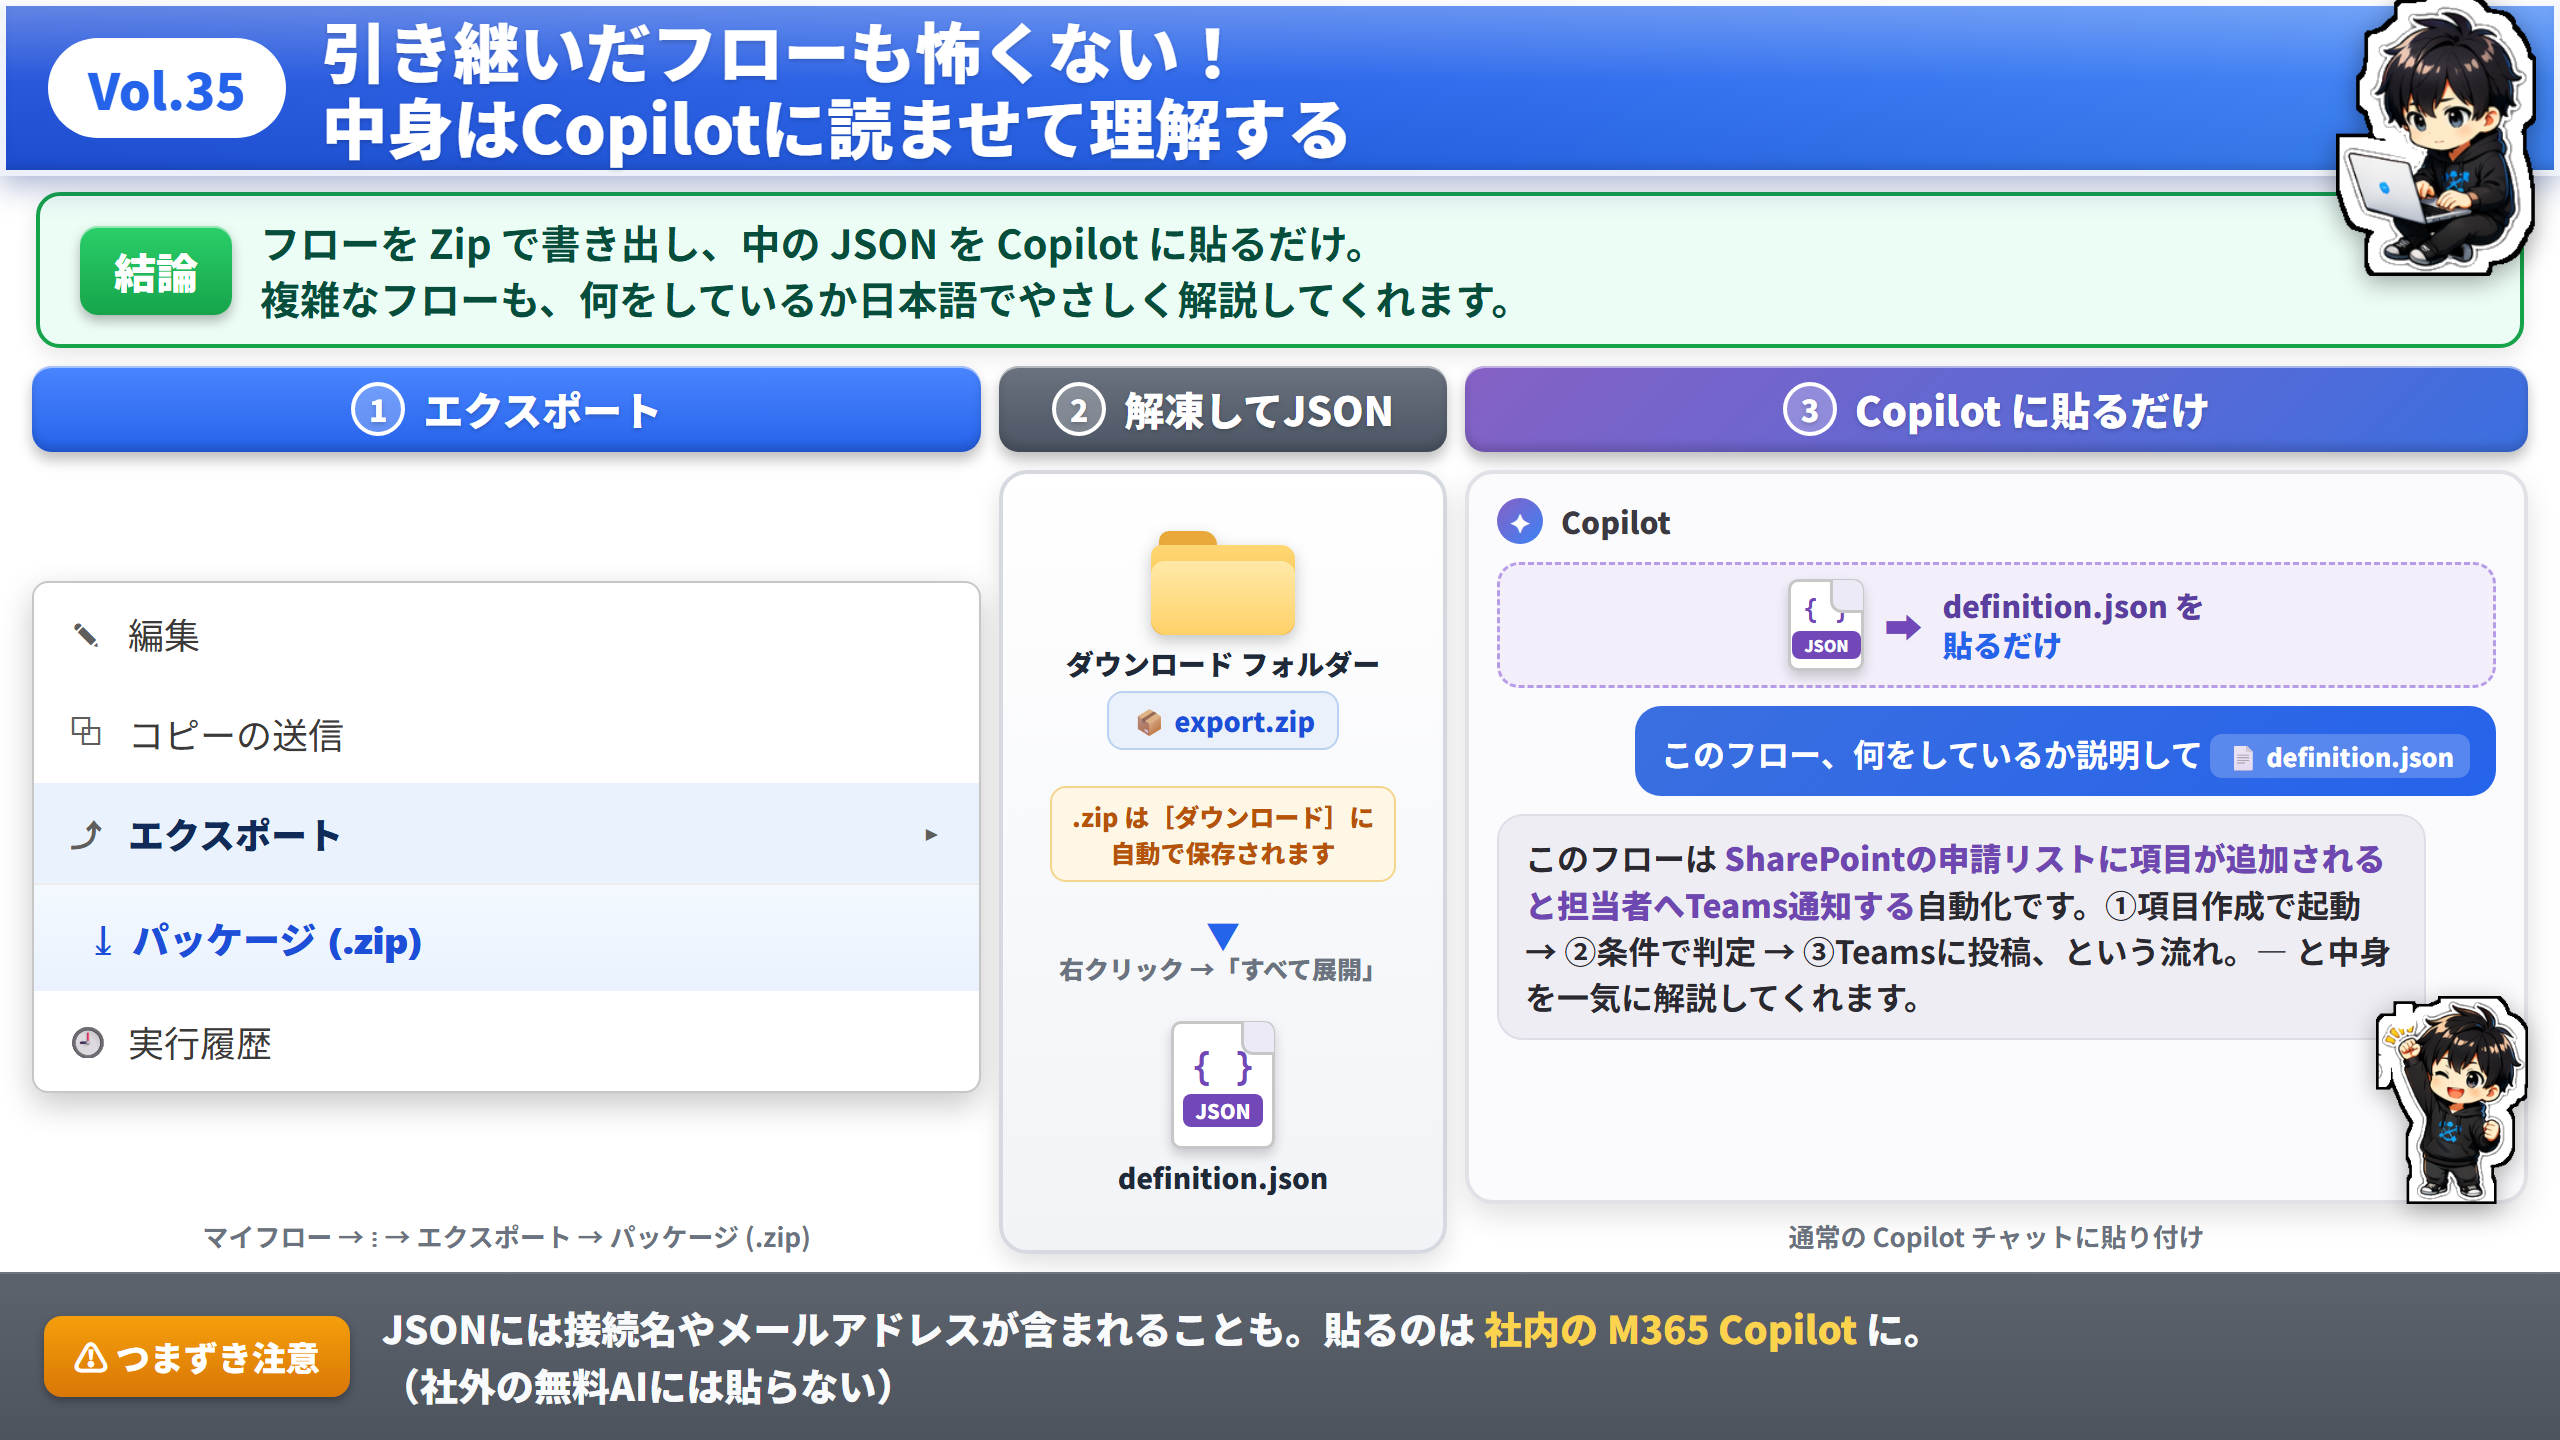
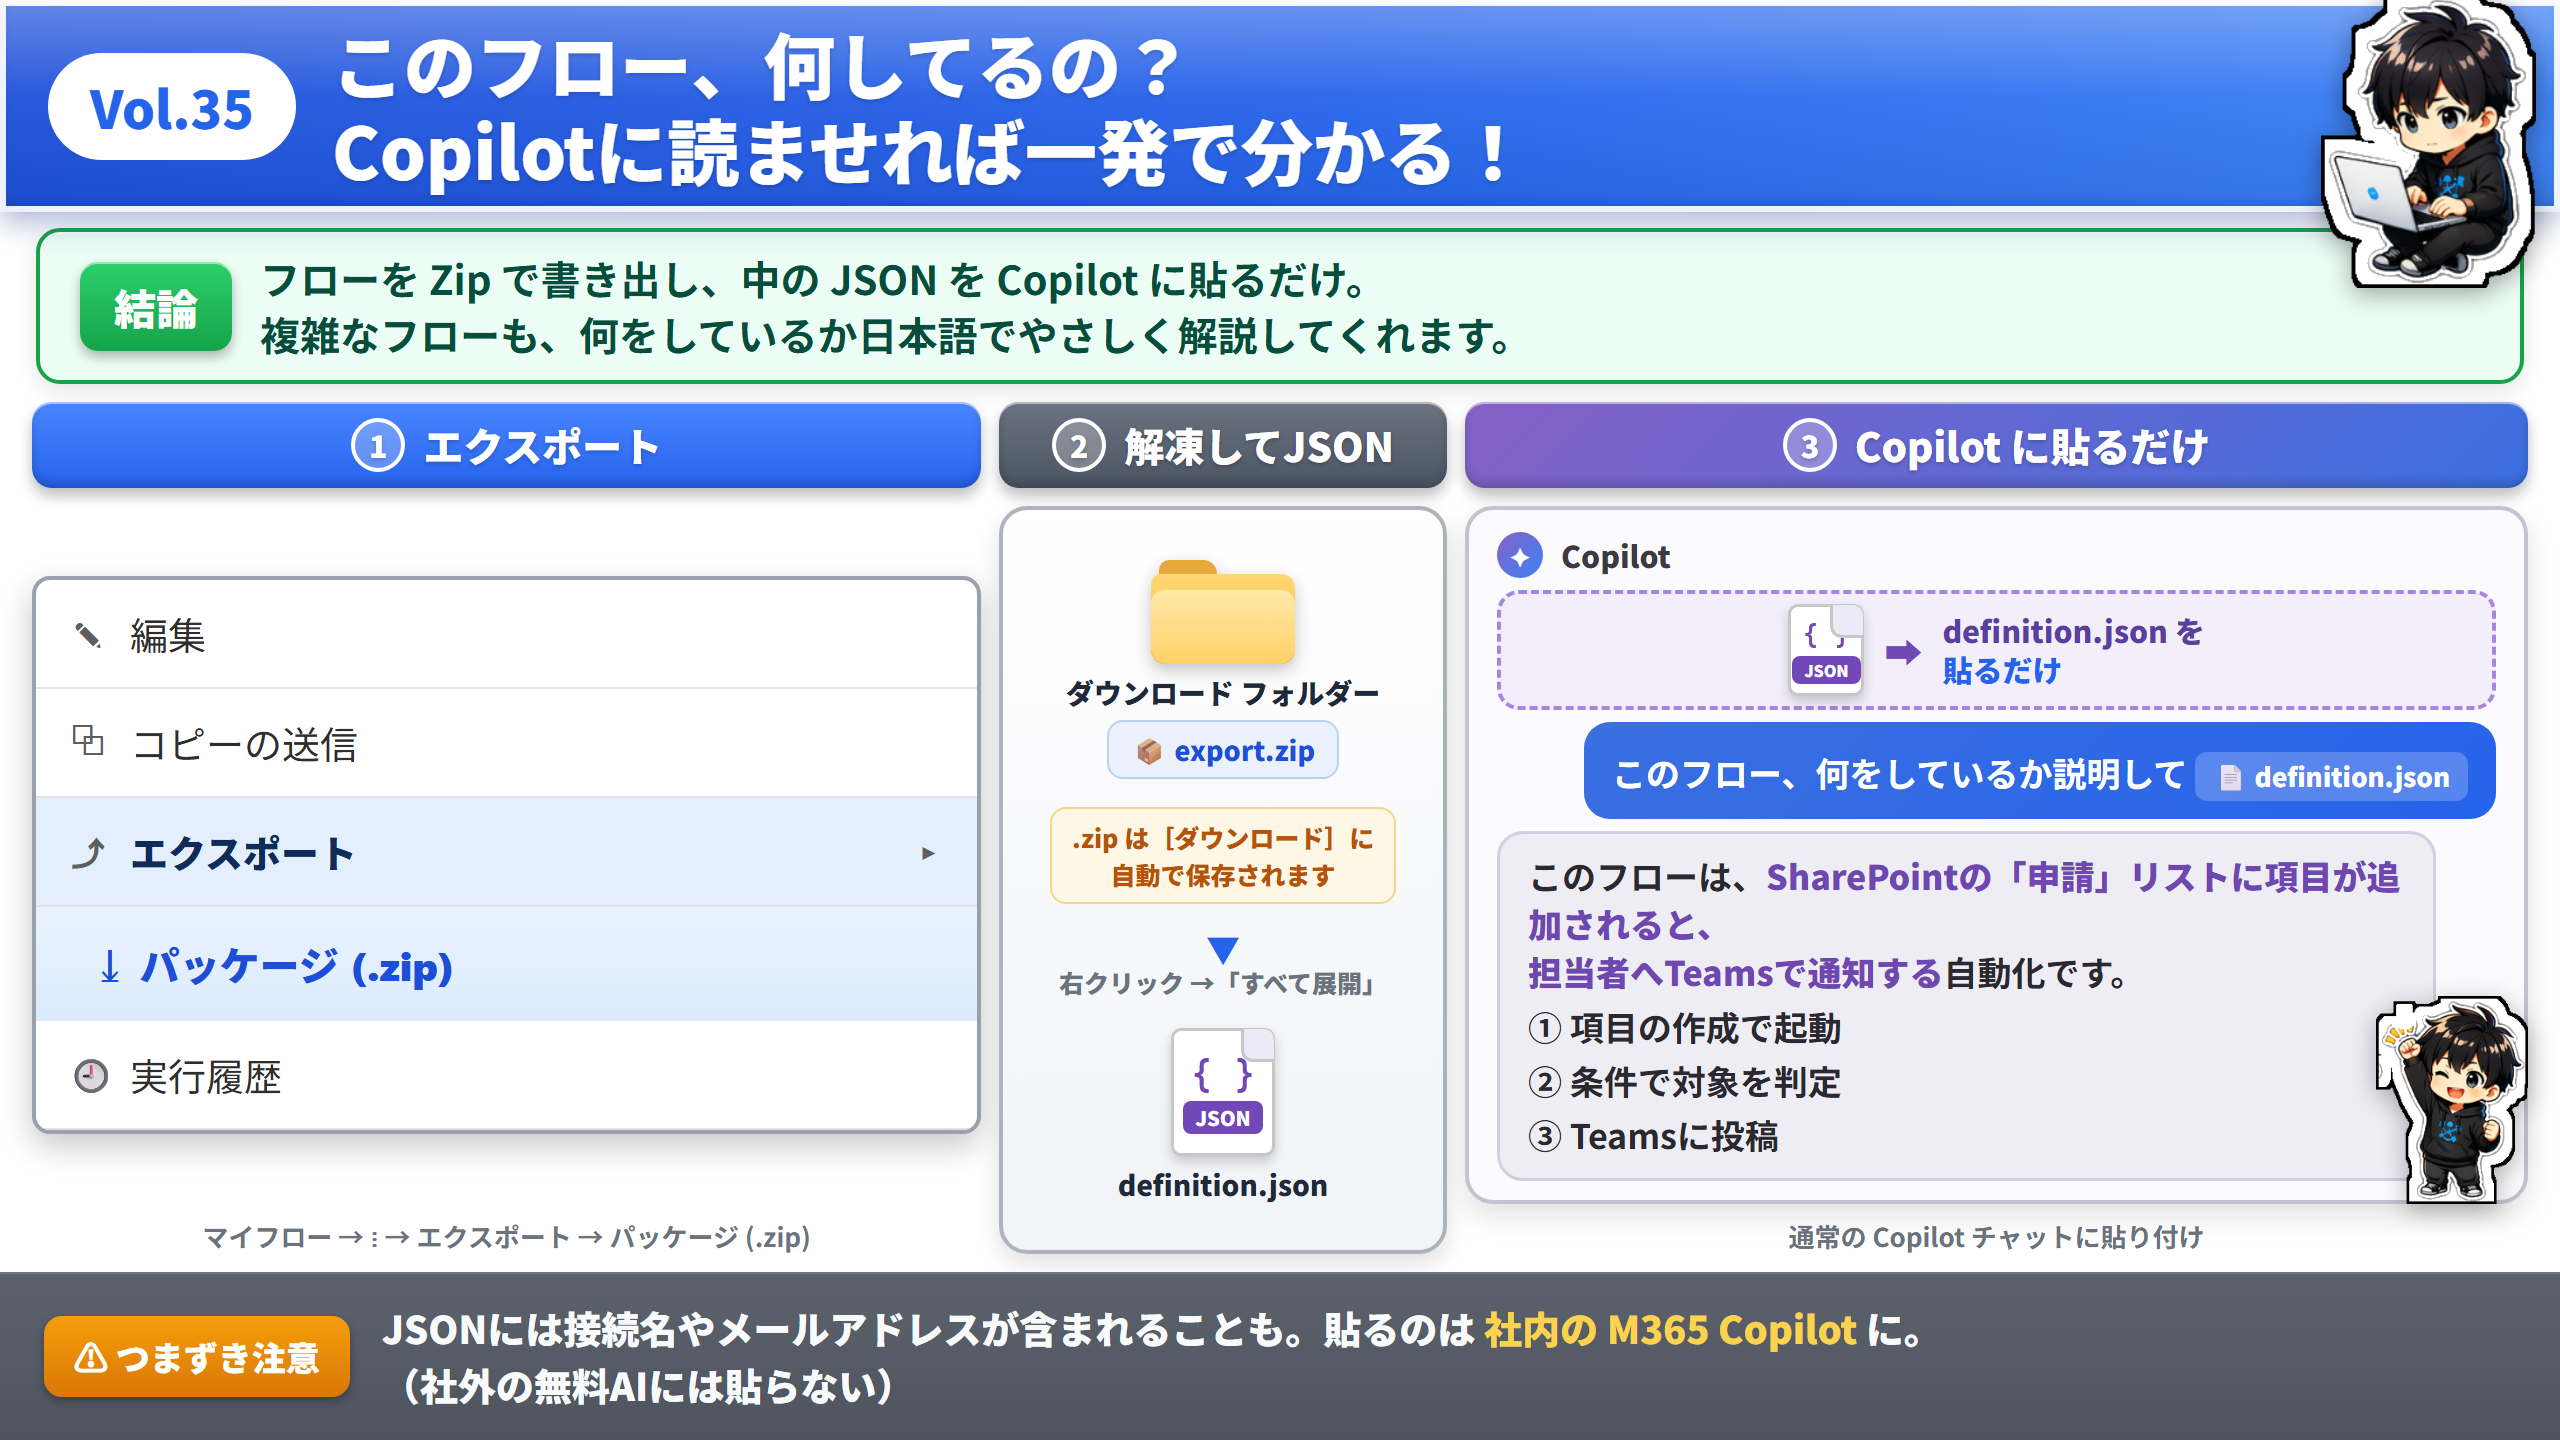
@ Vol.35 仕上げ: 枠線を濃く太く/Copilot解説を文節改行/タイトルバー拡大&キャッチー化/字拡大
@

diff --git a/assets/x/html/vol-35/index.html b/assets/x/html/vol-35/index.html
@@ -16,10 +16,10 @@
   body{background:#52555c;display:flex;justify-content:center;align-items:center;min-height:100vh;font-family:"Noto Sans JP",sans-serif;}
   #slide{width:1280px;height:720px;background:#fff;position:relative;overflow:hidden;display:flex;flex-direction:column;color:var(--gray);}
 
-  .titlebar{height:88px;background:linear-gradient(180deg,rgba(255,255,255,.32),rgba(255,255,255,.05) 46%,rgba(0,0,0,.06) 100%),linear-gradient(135deg,#1D4ED8 0%,#2563EB 52%,#3B82F6 100%);box-shadow:inset 0 0 0 3px rgba(255,255,255,.92),inset 0 2px 1px rgba(255,255,255,.45),inset 0 -4px 6px rgba(0,0,0,.16),0 5px 14px rgba(30,58,138,.36);display:flex;align-items:center;gap:18px;padding:0 24px;position:relative;flex:0 0 auto;z-index:5;}
-  .vol-pill{background:#fff;color:var(--blue);font-weight:900;font-size:25px;border-radius:999px;padding:7px 20px;white-space:nowrap;flex:0 0 auto;}
-  .title-text{color:#fff;font-weight:900;font-size:33px;line-height:1.15;text-shadow:0 1px 2px rgba(0,0,0,.18);padding-right:150px;}
-  .title-chara{position:absolute;right:12px;bottom:-50px;height:140px;z-index:50;filter:drop-shadow(0 3px 6px rgba(0,0,0,.35));}
+  .titlebar{height:106px;background:linear-gradient(180deg,rgba(255,255,255,.32),rgba(255,255,255,.05) 46%,rgba(0,0,0,.06) 100%),linear-gradient(135deg,#1D4ED8 0%,#2563EB 52%,#3B82F6 100%);box-shadow:inset 0 0 0 3px rgba(255,255,255,.92),inset 0 2px 1px rgba(255,255,255,.45),inset 0 -4px 6px rgba(0,0,0,.16),0 5px 14px rgba(30,58,138,.36);display:flex;align-items:center;gap:18px;padding:0 24px;position:relative;flex:0 0 auto;z-index:5;}
+  .vol-pill{background:#fff;color:var(--blue);font-weight:900;font-size:26px;border-radius:999px;padding:8px 21px;white-space:nowrap;flex:0 0 auto;}
+  .title-text{color:#fff;font-weight:900;font-size:36px;line-height:1.2;text-shadow:0 1px 2px rgba(0,0,0,.18);padding-right:150px;}
+  .title-chara{position:absolute;right:12px;bottom:-38px;height:150px;z-index:50;filter:drop-shadow(0 3px 6px rgba(0,0,0,.35));}
   .concl{margin:8px 18px 0;background:var(--green-bg);border:2px solid var(--green);border-radius:12px;display:flex;align-items:center;gap:14px;padding:9px 20px;flex:0 0 auto;box-shadow:0 4px 11px rgba(0,0,0,.10),inset 0 1px 0 rgba(255,255,255,.7);}
   .concl .chip{background:linear-gradient(180deg,#2BD06A,#16A34A);color:#fff;font-weight:900;font-size:21px;border-radius:9px;padding:7px 17px;white-space:nowrap;box-shadow:0 3px 6px rgba(0,0,0,.28),inset 0 1px 0 rgba(255,255,255,.5);}
   .concl .txt{font-weight:700;font-size:20px;color:var(--green-dark);line-height:1.4;}
@@ -36,15 +36,15 @@
 
   /* 左：エクスポート画面（字大きめ） */
   .xwrap{flex:1;display:flex;flex-direction:column;justify-content:center;}
-  .xmenu{background:#fff;border:1px solid #C7C7C7;border-radius:8px;box-shadow:0 6px 16px rgba(0,0,0,.22);font-family:'Segoe UI','Noto Sans JP',sans-serif;overflow:hidden;}
-  .xmenu .r{display:flex;align-items:center;gap:11px;padding:12px 16px;font-size:18px;color:#3B3A39;}
-  .xmenu .r .ic{font-size:16px;width:20px;text-align:center;color:#605E5C;}
-  .xmenu .r.on{background:#EAF2FD;color:#102B57;font-weight:800;}
+  .xmenu{background:#fff;border:2px solid #9AA1AA;border-radius:9px;box-shadow:0 6px 16px rgba(0,0,0,.22);font-family:'Segoe UI','Noto Sans JP',sans-serif;overflow:hidden;}
+  .xmenu .r{display:flex;align-items:center;gap:11px;padding:13px 16px;font-size:19px;color:#2F2E2D;border-bottom:1px solid #E2E2E5;}
+  .xmenu .r .ic{font-size:17px;width:20px;text-align:center;color:#605E5C;}
+  .xmenu .r.on{background:#E3EFFD;color:#0F2B57;font-weight:800;}
   .xmenu .r .ar{margin-left:auto;color:#605E5C;font-weight:900;}
-  .xmenu .sub{display:flex;align-items:center;gap:10px;padding:13px 16px 13px 30px;border-top:1px solid #ECECEC;background:linear-gradient(180deg,#F4F9FF,#E9F2FE);font-size:18.5px;font-weight:900;color:#1D4ED8;}
+  .xmenu .sub{display:flex;align-items:center;gap:10px;padding:14px 16px 14px 32px;border-bottom:none;background:linear-gradient(180deg,#EAF3FF,#DCEBFD);font-size:20px;font-weight:900;color:#1D4ED8;}
 
   /* 中央：ダウンロード→解凍→JSON */
-  .col2 .body{flex:1;background:linear-gradient(180deg,#FFFFFF,#F1F3F7);border:2px solid #D6DAE0;border-radius:14px;box-shadow:0 5px 12px rgba(0,0,0,.12);display:flex;flex-direction:column;align-items:center;justify-content:space-evenly;padding:9px;}
+  .col2 .body{flex:1;background:linear-gradient(180deg,#FFFFFF,#F1F3F7);border:2px solid #AEB4BD;border-radius:14px;box-shadow:0 5px 12px rgba(0,0,0,.12);display:flex;flex-direction:column;align-items:center;justify-content:space-evenly;padding:9px;}
   .dlrow{display:flex;flex-direction:column;align-items:center;gap:4px;}
   .dllbl{font-weight:900;font-size:14px;color:var(--ink);}
   .zipchip{display:inline-flex;align-items:center;gap:6px;background:#EAF1FB;border:1px solid #B9D2F2;border-radius:8px;padding:4px 11px;font-weight:800;font-size:13.5px;color:#1D4ED8;}
@@ -61,21 +61,22 @@
   .jfile .tg{background:var(--cop);color:#fff;font-weight:900;font-size:10px;border-radius:4px;padding:1px 6px;}
 
   /* 右：Copilotチャット（ホワイトモード） */
-  .copa{flex:1;background:#FBFAFC;border:2px solid #E3E1E8;border-radius:14px;padding:12px 14px;display:flex;flex-direction:column;gap:9px;min-height:0;box-shadow:0 6px 15px rgba(0,0,0,.12);position:relative;}
+  .copa{flex:1;background:#FBFAFC;border:2px solid #C5C2D0;border-radius:14px;padding:11px 14px;display:flex;flex-direction:column;gap:6px;min-height:0;box-shadow:0 6px 15px rgba(0,0,0,.12);position:relative;}
   .copa .chead{display:flex;align-items:center;gap:9px;color:#3B3A42;font-weight:900;font-size:15px;}
   .copa .chead .lg{width:23px;height:23px;border-radius:50%;background:linear-gradient(135deg,#8661C5,#3B82F6);display:flex;align-items:center;justify-content:center;font-size:12px;color:#fff;}
   /* 貼り付けの図解 */
-  .dropline{display:flex;align-items:center;justify-content:center;gap:10px;background:#F3EFFA;border:1.5px dashed #B69CE6;border-radius:11px;padding:7px 10px;}
+  .dropline{display:flex;align-items:center;justify-content:center;gap:10px;background:#F3EFFA;border:2px dashed #A684E0;border-radius:11px;padding:5px 10px;}
   .dropline .jfile{width:38px;height:46px;}
   .dropline .jfile .br{font-size:14px;} .dropline .jfile .tg{font-size:8px;}
   .dropline .da{color:var(--cop);font-weight:900;font-size:19px;}
   .dropline .dt{font-weight:900;font-size:15px;color:#5B3FA0;line-height:1.3;}
   .dropline .dt b{color:#2563EB;}
-  .bubble{max-width:93%;border-radius:13px;padding:9px 13px;font-size:16px;line-height:1.45;font-weight:700;}
+  .bubble{max-width:94%;border-radius:13px;padding:9px 14px;font-size:17px;line-height:1.42;font-weight:700;}
   .bubble.user{align-self:flex-end;background:linear-gradient(135deg,#3B6FE0,#2563EB);color:#fff;}
-  .bubble.user .att{display:inline-flex;align-items:center;gap:5px;background:rgba(255,255,255,.22);border-radius:6px;padding:2px 8px;font-size:12.5px;font-weight:800;margin-top:5px;}
-  .bubble.ai{align-self:flex-start;background:#EFEDF4;color:#2A2930;border:1px solid #E0DDE8;}
+  .bubble.user .att{display:inline-flex;align-items:center;gap:5px;background:rgba(255,255,255,.22);border-radius:6px;padding:3px 9px;font-size:13px;font-weight:800;margin-top:6px;}
+  .bubble.ai{align-self:flex-start;background:#EFEDF4;color:#2A2930;border:1.5px solid #D3CFE0;}
   .bubble.ai b{color:#6E48B0;}
+  .bubble.ai .li{display:block;margin-top:3px;}
   .chmascot{position:absolute;right:-2px;bottom:-2px;height:104px;z-index:9;filter:drop-shadow(0 3px 6px rgba(0,0,0,.3));}
 
   /* 下：つまずきポイント帯（横・グレー） */
@@ -90,7 +91,7 @@
 
   <div class="titlebar">
     <div class="vol-pill">Vol.35</div>
-    <div class="title-text">引き継いだフローも怖くない！<br>中身はCopilotに読ませて理解する</div>
+    <div class="title-text">このフロー、何してるの？<br>Copilotに読ませれば一発で分かる！</div>
     <img class="title-chara" src="../../pptx/_assets/chara/chara_laptop.png" alt="">
   </div>
 
@@ -147,7 +148,7 @@
         <div class="bubble user">このフロー、何をしているか説明して
           <span class="att">📄 definition.json</span>
         </div>
-        <div class="bubble ai">このフローは <b>SharePointの申請リストに項目が追加されると担当者へTeams通知する</b>自動化です。①項目作成で起動 → ②条件で判定 → ③Teamsに投稿、という流れ。— と中身を一気に解説してくれます。</div>
+        <div class="bubble ai">このフローは、<b>SharePointの「申請」リストに項目が追加されると、<br>担当者へTeamsで通知する</b>自動化です。<span class="li">① 項目の作成で起動</span><span class="li">② 条件で対象を判定</span><span class="li">③ Teamsに投稿</span></div>
         <img class="chmascot" src="../../pptx/_assets/chara/chara_guts.png" alt="">
       </div>
       <div class="pcap">通常の Copilot チャットに貼り付け</div>
